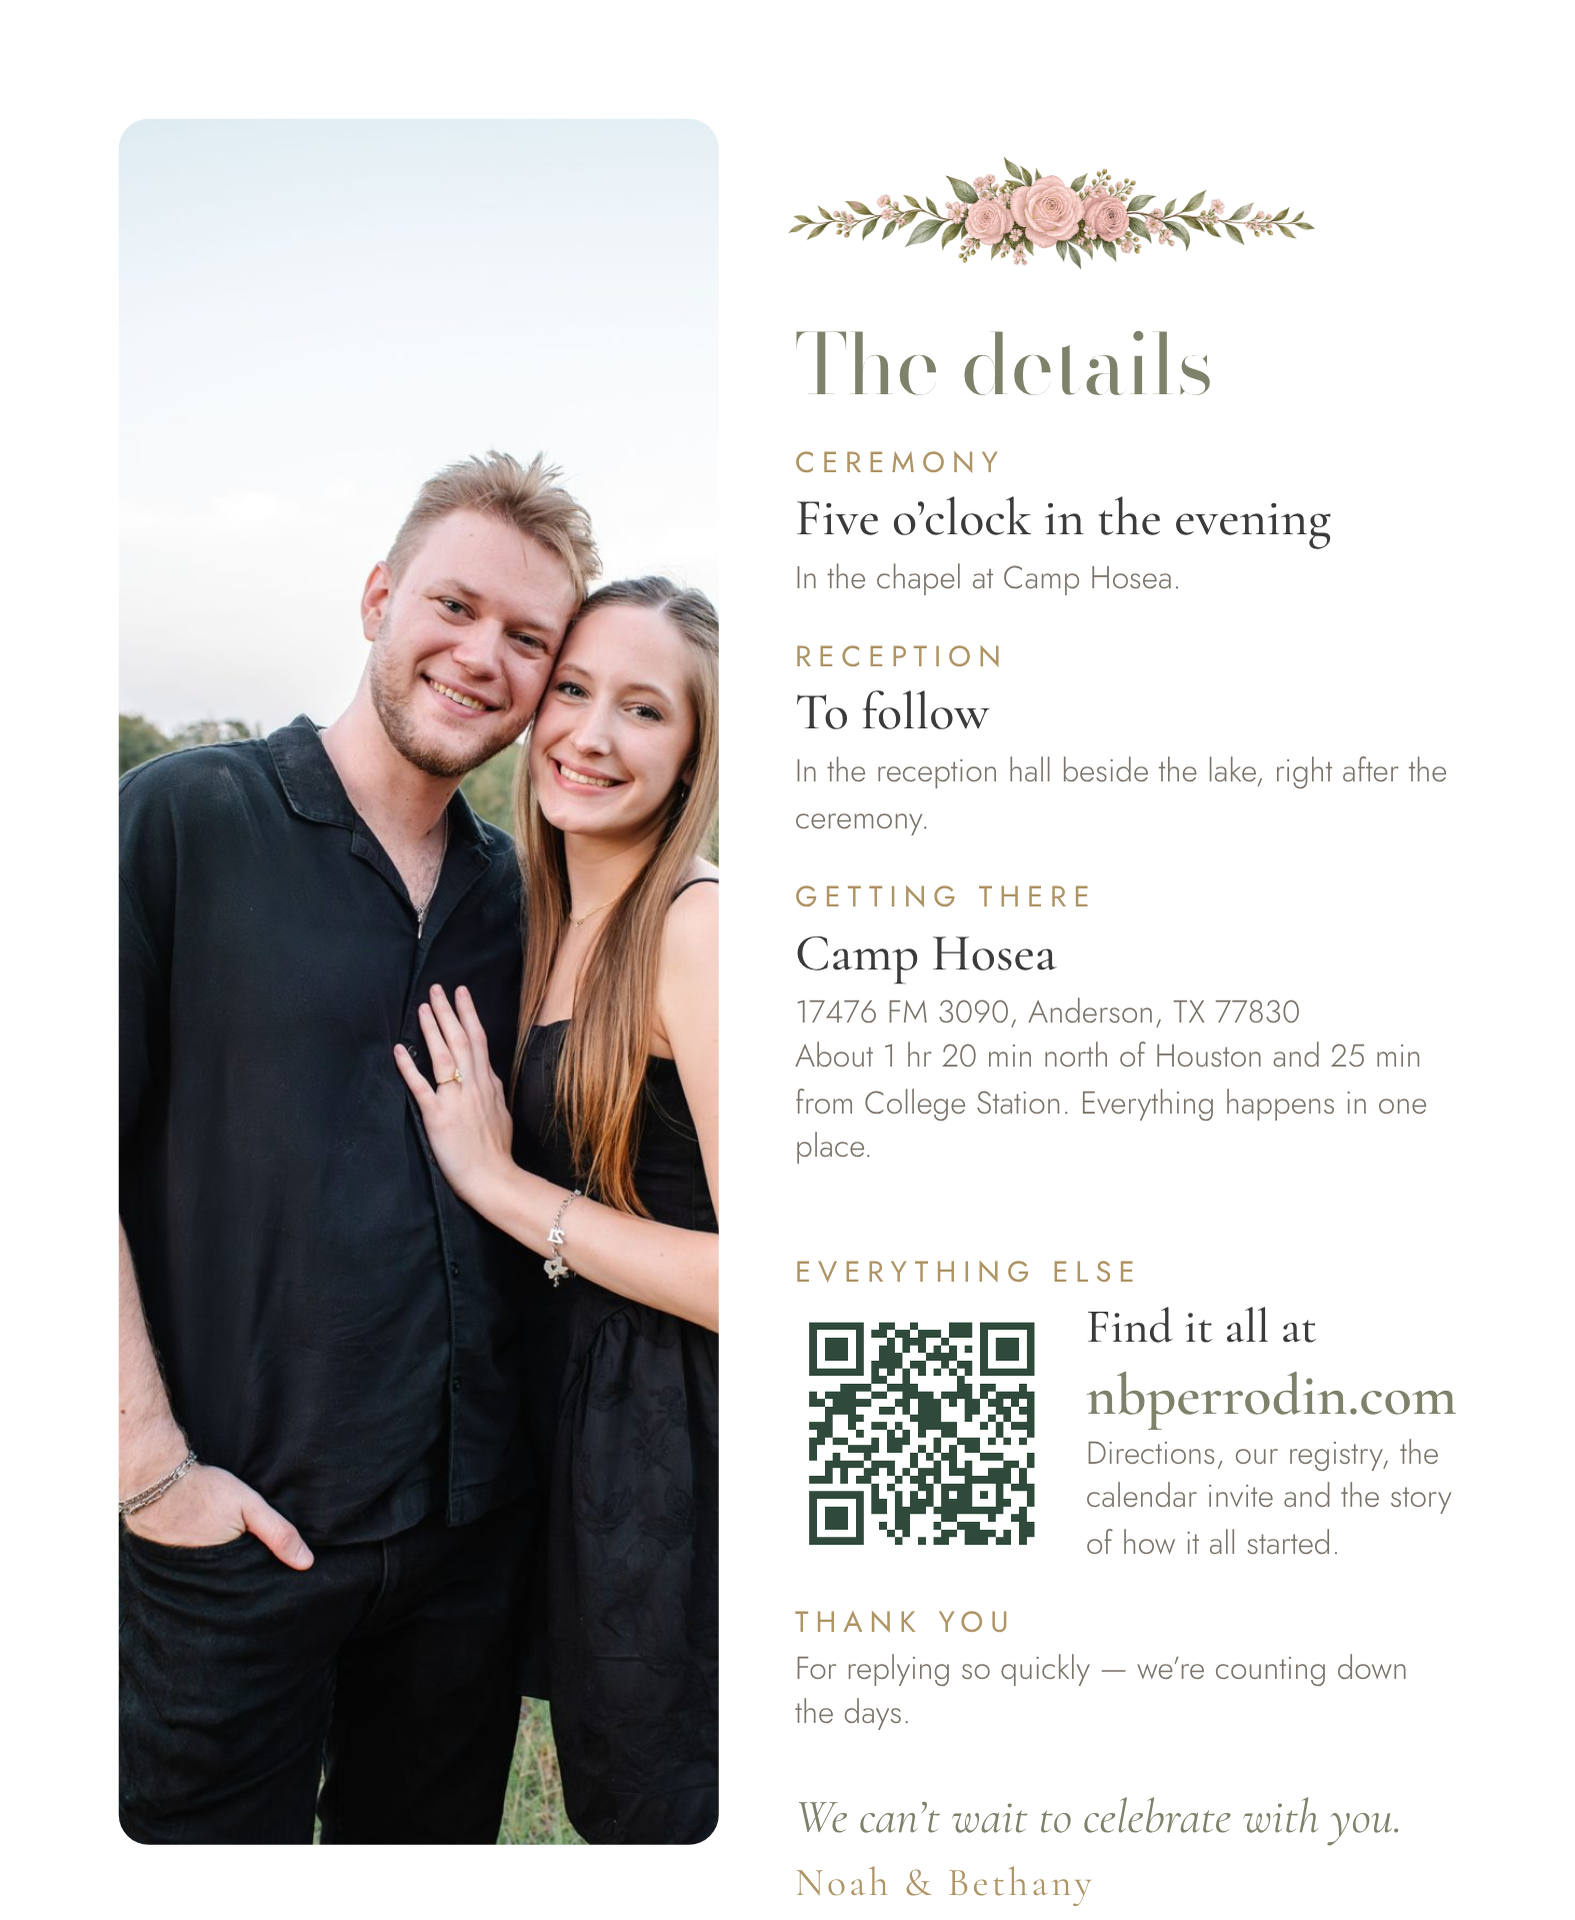
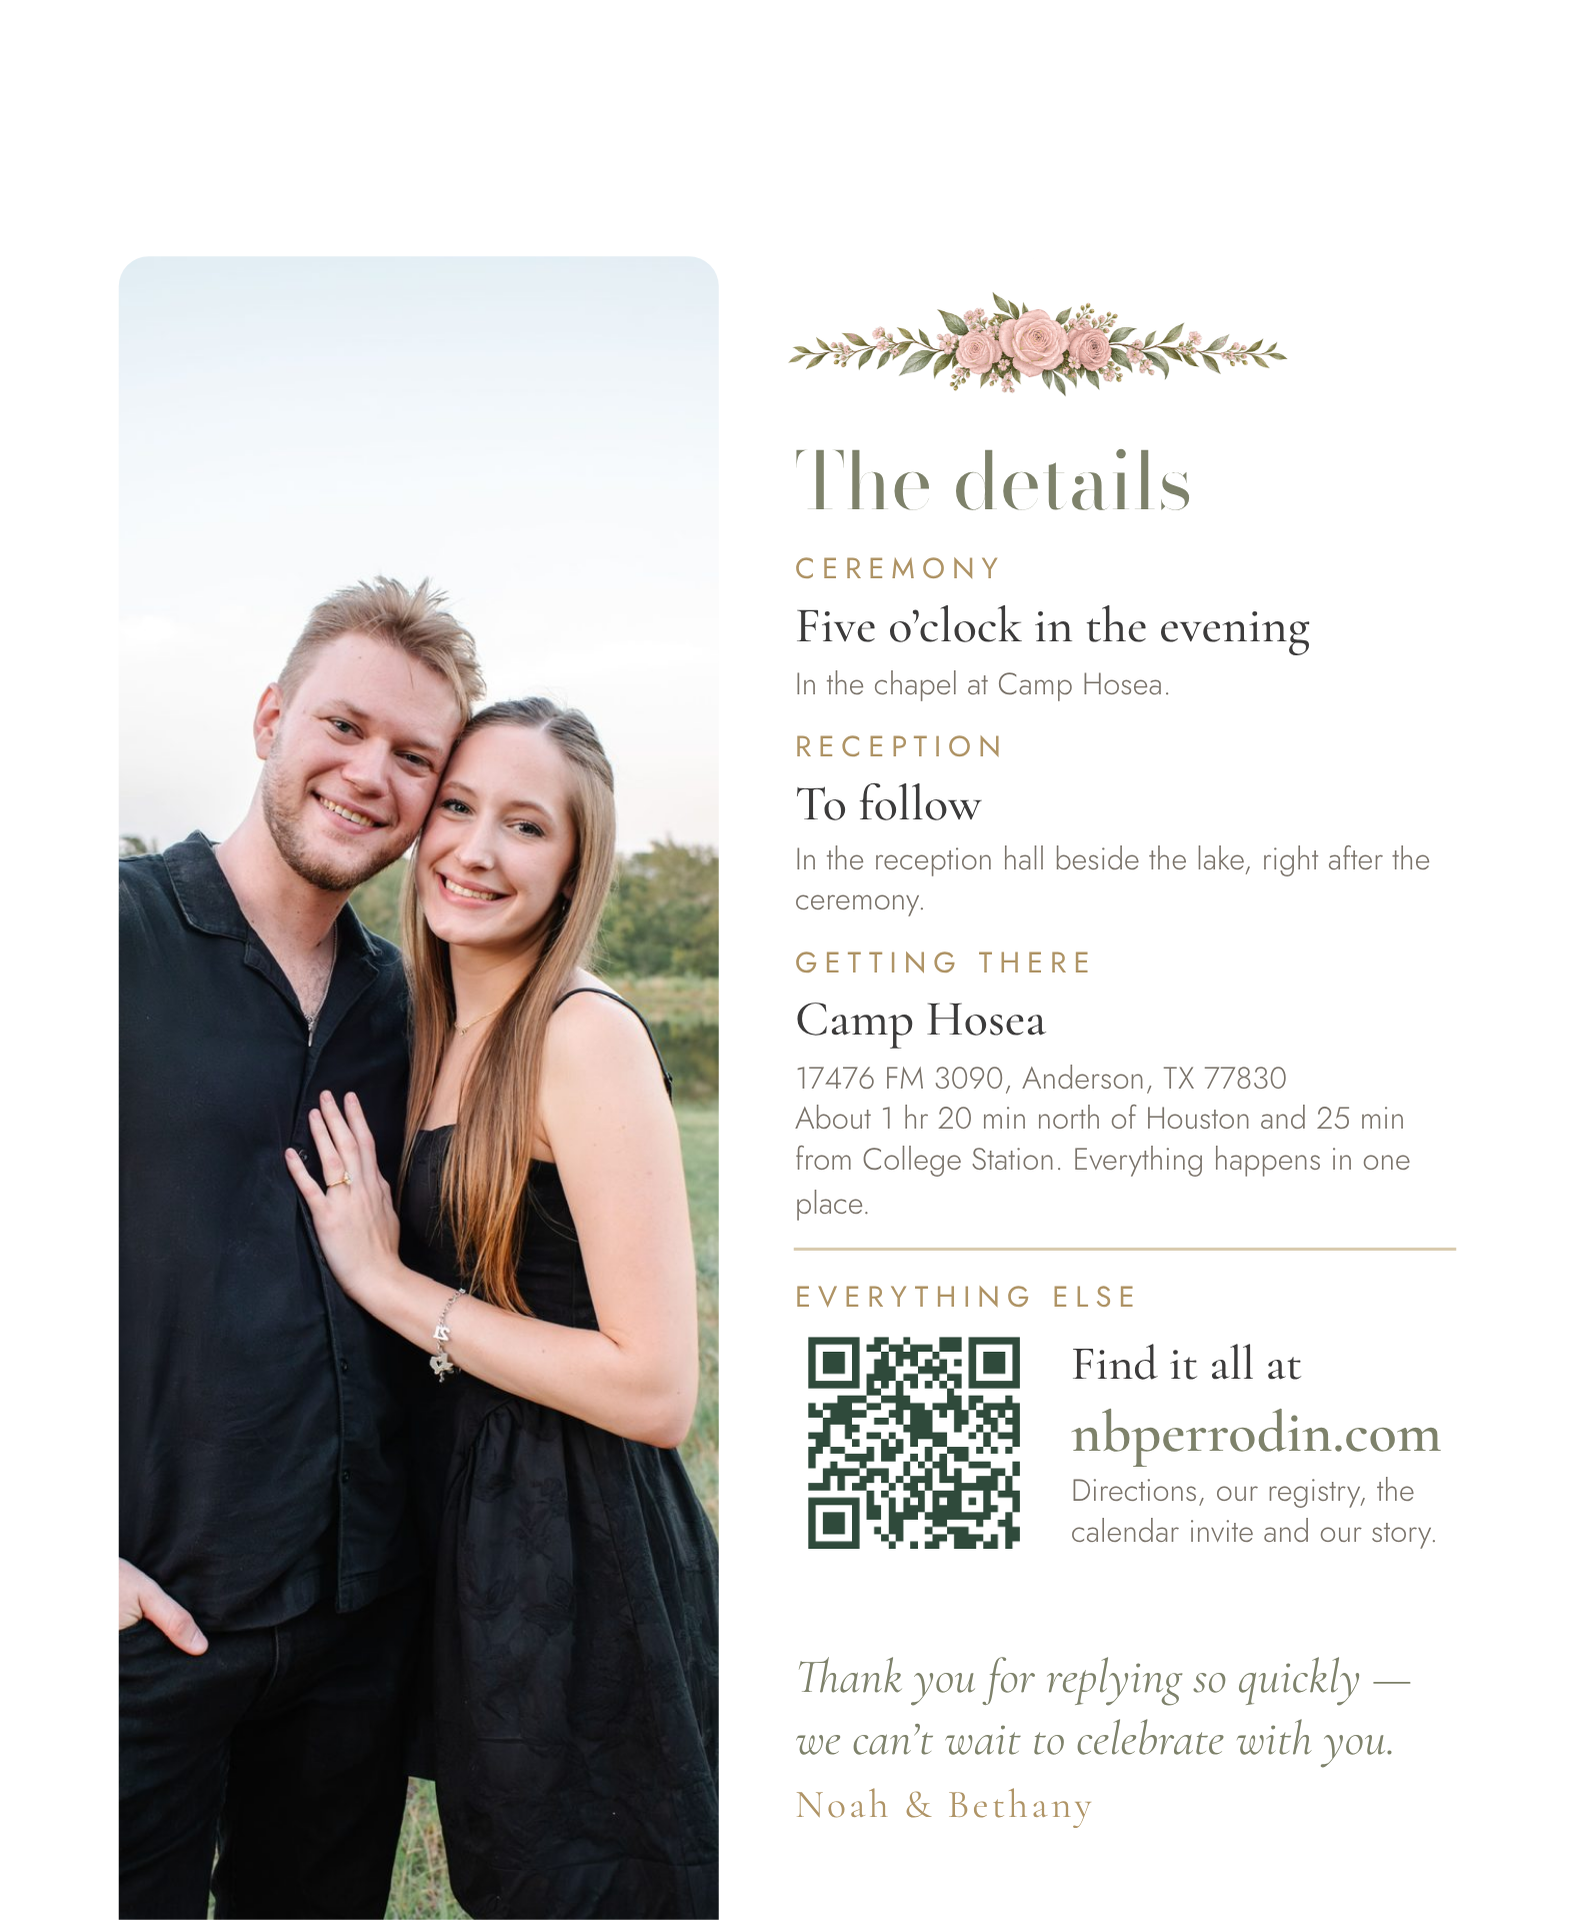
Invitation back: centered photo panel flush to Postable image edge, tightened text, merged thank-you into closing
Claude-Session: https://claude.ai/code/session_01Vdi1CNJaUAZHiJripcDEfd

diff --git a/invitation/back-postable.html b/invitation/back-postable.html
@@ -14,21 +14,21 @@
   html, body { margin: 0; }
   body { width: 5.25in; height: 6.4in; background: #FFFFFF; font-family: 'Jost', Helvetica, Arial, sans-serif; color: #3A3833; overflow: hidden; -webkit-print-color-adjust: exact; print-color-adjust: exact; }
   .card { position: relative; width: 5.25in; height: 6.4in; }
-  .photo { position: absolute; left: 0.4in; top: 0.4in; width: 2.0in; height: 5.75in; border-radius: 0.1in; background: url('../assets/photos/gallery/photo-55.jpg') 50% 25% / cover no-repeat; }
-  .details { position: absolute; left: 2.65in; right: 0.4in; top: 0.4in; bottom: 0.25in; display: flex; flex-direction: column; }
+  .photo { position: absolute; left: 0.4in; top: 0.85in; width: 2.0in; height: 5.55in; border-radius: 0.1in 0.1in 0 0; background: url('../assets/photos/gallery/photo-55.jpg') 71.5% 50% / cover no-repeat; }
+  .details { position: absolute; left: 2.65in; right: 0.4in; top: 0.85in; bottom: 0.3in; display: flex; flex-direction: column; }
   .close { margin-top: auto; padding-top: 4pt; font-family: 'Cormorant Garamond', Georgia, serif; font-style: italic; font-size: 11.5pt; color: #7E826B; line-height: 1.3; }
   .close .sig { display: block; font-style: normal; font-size: 9.5pt; letter-spacing: 0.08em; color: #AF9466; margin-top: 2pt; }
-  .garland { width: 1.8in; display: block; margin: 0 0 4pt -0.03in; }
-  h1 { font-family: 'Bodoni Moda', 'Didot', Georgia, serif; font-variation-settings: 'opsz' 96; font-size: 20pt; font-weight: 400; color: #7E826B; margin: 0 0 7pt; line-height: 1.1; }
-  .row { margin: 0 0 8pt; }
+  .garland { width: 1.7in; display: block; margin: 0 0 3pt -0.03in; }
+  h1 { font-family: 'Bodoni Moda', 'Didot', Georgia, serif; font-variation-settings: 'opsz' 96; font-size: 19pt; font-weight: 400; color: #7E826B; margin: 0 0 5pt; line-height: 1.1; }
+  .row { margin: 0 0 5pt; }
   .lbl { font-size: 7pt; letter-spacing: 0.24em; text-transform: uppercase; color: #AF9466; margin: 0 0 1.5pt; }
-  .val { font-family: 'Cormorant Garamond', Georgia, serif; font-size: 12.5pt; font-weight: 500; line-height: 1.25; color: #3C3B3B; }
-  .sub { font-size: 7.6pt; font-weight: 300; line-height: 1.42; color: #7A736A; margin-top: 1pt; }
+  .val { font-family: 'Cormorant Garamond', Georgia, serif; font-size: 12pt; font-weight: 500; line-height: 1.25; color: #3C3B3B; }
+  .sub { font-size: 7.4pt; font-weight: 300; line-height: 1.35; color: #7A736A; margin-top: 1pt; }
   .rsvp { display: flex; align-items: center; gap: 0.12in; margin-top: 2pt; }
-  .rsvp .qr { width: 0.85in; height: 0.85in; flex: none; }
+  .rsvp .qr { width: 0.8in; height: 0.8in; flex: none; }
   .rsvp .val { font-size: 11.5pt; }
   .url { font-family: 'Cormorant Garamond', Georgia, serif; font-size: 14pt; font-weight: 600; color: #7E826B; }
-  .divider { height: 1px; background: #D9CBB0; margin: 2pt 0 9pt; }
+  .divider { height: 1px; background: #D9CBB0; margin: 1pt 0 6pt; }
 </style>
 </head>
 <body>
@@ -63,16 +63,12 @@
         <div>
           <div class="val">Find it all at</div>
           <div class="url">nbperrodin.com</div>
-          <div class="sub">Directions, our registry, the calendar invite and the story of how it all started.</div>
+          <div class="sub">Directions, our registry, the calendar invite and our story.</div>
         </div>
       </div>
     </div>
-    <div class="row">
-      <div class="lbl">Thank you</div>
-      <div class="sub">For replying so quickly &mdash; we&rsquo;re counting down the days.</div>
-    </div>
 
-    <div class="close">We can&rsquo;t wait to celebrate with you.<span class="sig">Noah &amp; Bethany</span></div>
+    <div class="close">Thank you for replying so quickly &mdash; we can&rsquo;t wait to celebrate with you.<span class="sig">Noah &amp; Bethany</span></div>
   </div>
 </div>
 </body>

diff --git a/invitation/back.html b/invitation/back.html
@@ -13,7 +13,7 @@
   html, body { margin: 0; }
   body { width: 5.25in; height: 7.25in; background: #FBF9F5; font-family: 'Jost', Helvetica, Arial, sans-serif; color: #3A3833; overflow: hidden; -webkit-print-color-adjust: exact; print-color-adjust: exact; }
   .card { position: relative; width: 5.25in; height: 7.25in; display: flex; }
-  .photo { width: 2.05in; height: 100%; background: url('../assets/photos/gallery/photo-55.jpg') 50% 25% / cover no-repeat; }
+  .photo { width: 2.05in; height: 100%; background: url('../assets/photos/gallery/photo-55.jpg') 71.5% 50% / cover no-repeat; }
   .details { position: relative; flex: 1; display: flex; flex-direction: column; padding: 0.5in 0.42in 0.5in 0.36in; }
   .close { margin-top: auto; padding-top: 10pt; font-family: 'Cormorant Garamond', Georgia, serif; font-style: italic; font-size: 12.5pt; color: #7E826B; line-height: 1.3; }
   .close .sig { display: block; font-style: normal; font-size: 10pt; letter-spacing: 0.08em; color: #AF9466; margin-top: 3pt; }
@@ -62,16 +62,12 @@
         <div>
           <div class="val">Find it all at</div>
           <div class="url">nbperrodin.com</div>
-          <div class="sub">Directions, our registry, the calendar invite and the story of how it all started.</div>
+          <div class="sub">Directions, our registry, the calendar invite and our story.</div>
         </div>
       </div>
     </div>
-    <div class="row">
-      <div class="lbl">Thank you</div>
-      <div class="sub">For replying so quickly &mdash; we&rsquo;re counting down the days.</div>
-    </div>
 
-    <div class="close">We can&rsquo;t wait to celebrate with you.<span class="sig">Noah &amp; Bethany</span></div>
+    <div class="close">Thank you for replying so quickly &mdash; we can&rsquo;t wait to celebrate with you.<span class="sig">Noah &amp; Bethany</span></div>
   </div>
 </div>
 </body>
